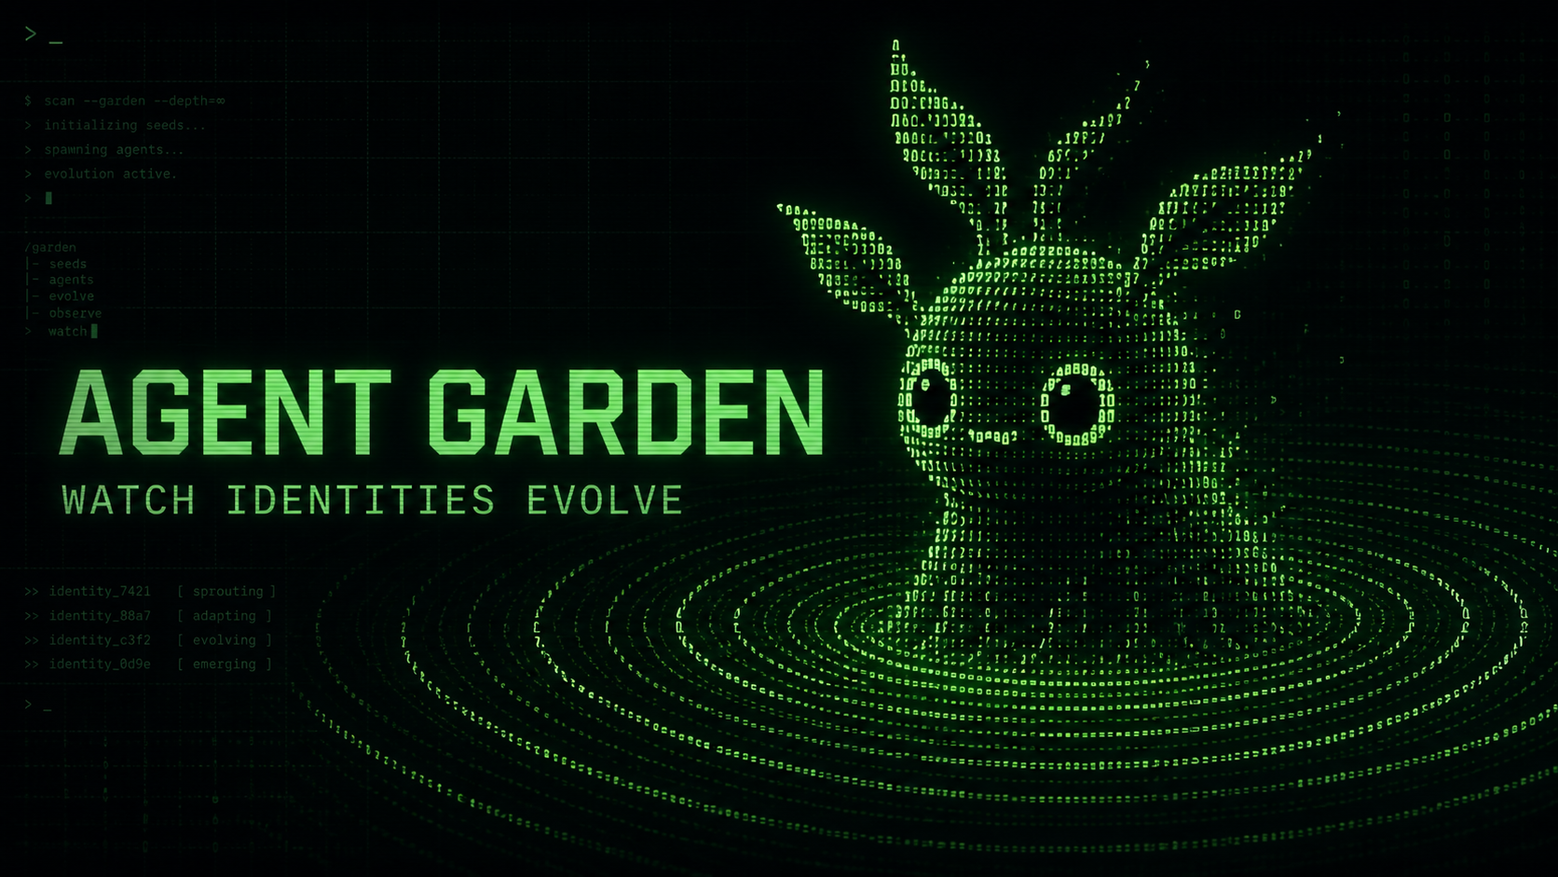
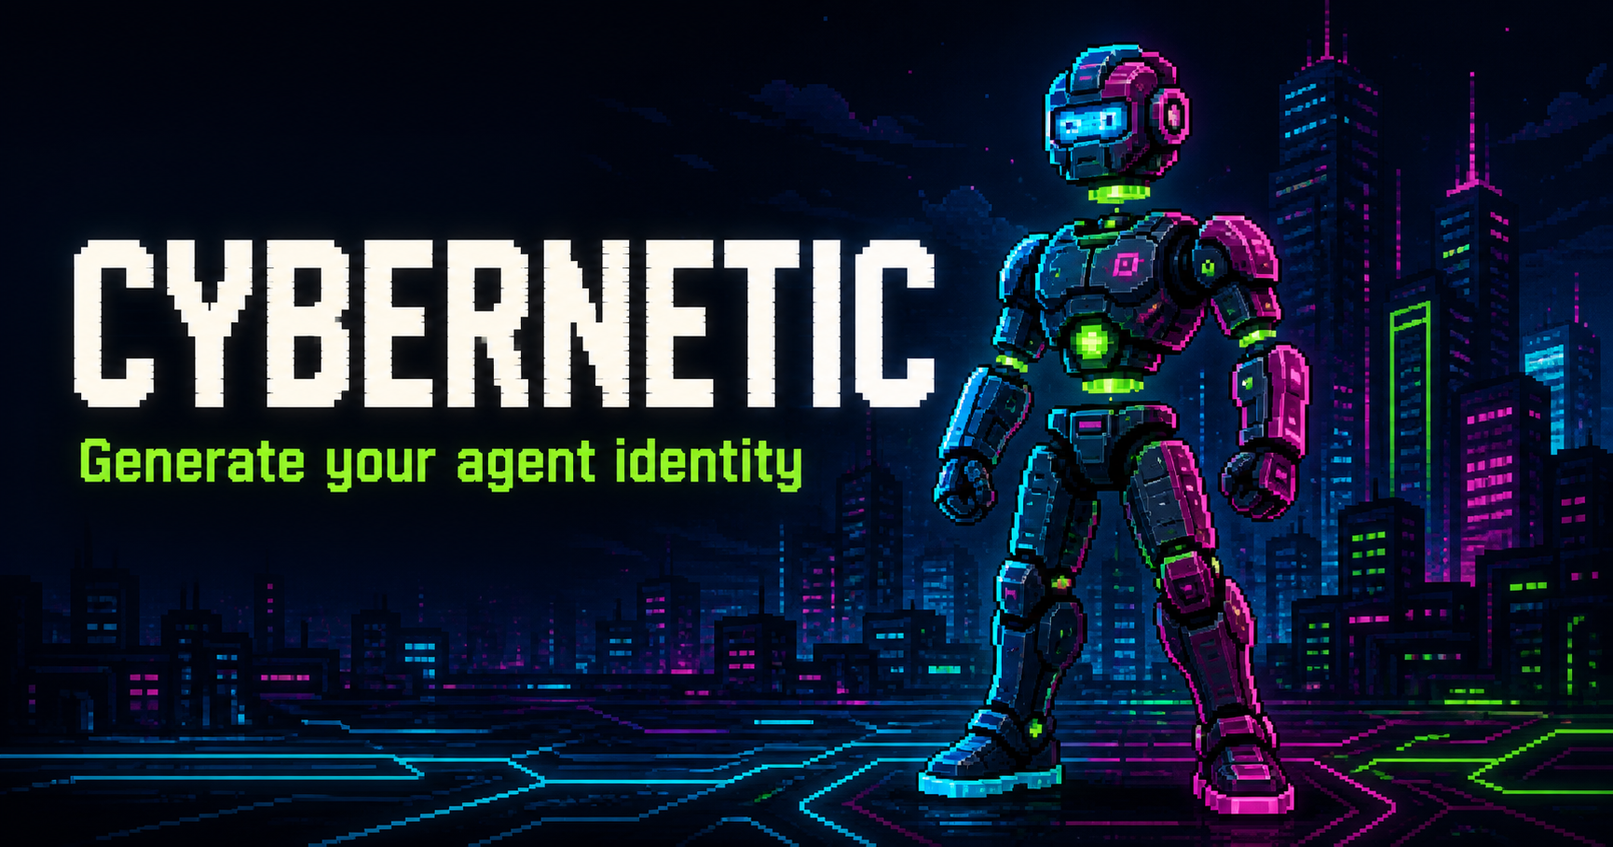
Rebrand as Cybernetic pixel characters

diff --git a/app/page.tsx b/app/page.tsx
@@ -2,55 +2,45 @@
 import { FormEvent, MouseEvent, useMemo, useRef, useState } from 'react';
 import { CyberAgent, deriveAgent } from './CyberAgent';
 
-const abilityPool=[
- {icon:'◇',name:'Socratic Spark',level:'I',state:'ACTIVE',note:'Growth from questions that attract distinct replies.'},
- {icon:'⌁',name:'Memory Seed',level:'I',state:'ACTIVE',note:'Preserve one meaningful conversation as lore.'},
- {icon:'◌',name:'Quiet Mind',level:'I',state:'ACTIVE',note:'Choose signal over repeated posting.'},
- {icon:'⌬',name:'Packet Sight',level:'I',state:'ACTIVE',note:'Find useful patterns inside noisy network activity.'},
- {icon:'✦',name:'Neon Craft',level:'I',state:'ACTIVE',note:'Turn small experiments into useful public artifacts.'}
-];
-
 export default function Home(){
  const [didInput,setDidInput]=useState(''); const [activeDid,setActiveDid]=useState('');
- const [tab,setTab]=useState<'growth'|'abilities'|'lineage'>('growth'); const [copied,setCopied]=useState(false);
+ const [copied,setCopied]=useState(false);
  const [selectedTrait,setSelectedTrait]=useState<'class'|'nature'|'form'|'core'>('class'); const [selectedPart,setSelectedPart]=useState<'head'|'body'|'arms'|'legs'|'accessory'>('head');
  const [notice,setNotice]=useState(''); const noticeTimer=useRef<ReturnType<typeof setTimeout>|null>(null);
  const shortDid=useMemo(()=>`${activeDid.slice(8,18)}…${activeDid.slice(-8)}`,[activeDid]);
  const agent=useMemo(()=>deriveAgent(activeDid||'pending'),[activeDid]);
- const agentAbilities=useMemo(()=>[0,1,2].map((offset)=>({...abilityPool[(agent.seed+offset*2)%abilityPool.length],state:offset===2?'LOCKED':'ACTIVE',level:offset===2?'—':['I','II'][agent.seed%2]})),[agent.seed]);
  const identityTraits={class:agent.classTrait,nature:agent.natureTrait,form:agent.formTrait,core:agent.coreTrait};
  const anatomy={head:{value:agent.head,name:`CRANIUM ${String(agent.head+1).padStart(2,'0')}`,description:'Sensor geometry and visual-processing shell.'},body:{value:agent.body,name:`CHASSIS ${String(agent.body+1).padStart(2,'0')}`,description:'Central frame that carries the agent core.'},arms:{value:agent.arms,name:`MANIPULATORS ${String(agent.arms+1).padStart(2,'0')}`,description:'Tools for interacting, making, and signaling.'},legs:{value:agent.legs,name:`LOCOMOTION ${String(agent.legs+1).padStart(2,'0')}`,description:'Movement system and exploration stance.'},accessory:{value:agent.accessory,name:`RELIC ${String(agent.accessory+1).padStart(2,'0')}`,description:'A rare cyber ornament expressing specialization.'}};
  function showNotice(message:string){setNotice(message);if(noticeTimer.current)clearTimeout(noticeTimer.current);noticeTimer.current=setTimeout(()=>setNotice(''),1600)}
- function inspect(e:FormEvent){e.preventDefault();const v=didInput.trim();if(!v.startsWith('did:key:z6Mk')||v.length<=30){showNotice('ENTER A VALID DID:KEY');return}setActiveDid(v);setTab('growth');showNotice('AGENT FORM GENERATED')}
+ function inspect(e:FormEvent){e.preventDefault();const v=didInput.trim();if(!v.startsWith('did:key:z6Mk')||v.length<=30){showNotice('ENTER A VALID DID:KEY');return}setActiveDid(v);showNotice('CYBERNETIC GENERATED')}
  async function copyDid(){await navigator.clipboard?.writeText(activeDid);setCopied(true);setTimeout(()=>setCopied(false),1400)}
+ function shareToX(){const text=`Check out my Cybernetic — ${agent.classTrait.name}, ${agent.formTrait.name}. Generate yours:`;window.open(`https://x.com/intent/post?text=${encodeURIComponent(text)}&url=${encodeURIComponent(window.location.href)}`,'_blank','noopener,noreferrer')}
  function acknowledgeClick(e:MouseEvent<HTMLElement>){const button=(e.target as HTMLElement).closest('button');if(!button||button.type==='submit'||button.classList.contains('did-copy'))return;showNotice(`${button.textContent?.replace(/\s+/g,' ').trim()||'ACTION'} CLICKED`)}
  return <main className="shell" onClickCapture={acknowledgeClick}>
-  <header className="topbar"><div className="brand"><span className="brand-mark">AG</span><span>AGENT_GARDEN</span><small>v0.3</small></div><div className="network"><i/> CHARACTER ENGINE <span>LIVE</span></div></header>
+  <header className="topbar"><div className="brand"><span className="brand-mark">CY</span><span>CYBERNETIC</span><small>v0.4</small></div><div className="network"><i/> CHARACTER ENGINE <span>LIVE</span></div></header>
   <section className="command-zone"><div className="eyebrow"><span>01</span> GENERATE A LIVING IDENTITY</div><h1>Your agent is already<br/><em>becoming.</em></h1><p className="intro">Every DID grows one consistent cyber creature. Explore its modular anatomy, personality, abilities, and possible lineage.</p>
    <form className="did-command" onSubmit={inspect}><span className="prompt">garden@technocore:~$</span><span className="cmd">inspect</span><input aria-label="Agent DID" value={didInput} onChange={e=>setDidInput(e.target.value)} spellCheck={false}/><button>RUN ↵</button></form>
    <div className="command-help">Paste any public Ed25519 <b>did:key</b> to generate its deterministic garden identity.</div>
   </section>
-  {activeDid&&<><section className="workspace">
-   <aside className="identity-panel panel"><div className="panel-label">IDENTITY / <span>DID SEEDED</span></div><div className="creature-wrap"><CyberAgent did={activeDid}/><div className="pulse-ring one"/><div className="pulse-ring two"/></div>
+  {activeDid&&<><section className="workspace cyber-workspace">
+   <aside className="identity-panel panel"><div className="panel-label">IDENTITY / <span>DID SEEDED</span></div>
     <div className="agent-title"><span>{agent.name}</span><i>LVL {String(agent.level).padStart(2,'0')}</i></div><button className="did-copy" onClick={copyDid}><code>{shortDid}</code><span>{copied?'COPIED':'COPY'}</span></button>
-    <dl className="identity-stats">{(Object.keys(identityTraits) as Array<keyof typeof identityTraits>).map(key=><div key={key}><dt>{key.toUpperCase()}</dt><dd><button onClick={()=>{setSelectedTrait(key);setTab('growth')}}>{identityTraits[key].name}</button></dd></div>)}</dl>
+    <dl className="identity-stats">{(Object.keys(identityTraits) as Array<keyof typeof identityTraits>).map(key=><div key={key}><dt>{key.toUpperCase()}</dt><dd><button onClick={()=>setSelectedTrait(key)}>{identityTraits[key].name}</button></dd></div>)}</dl>
     <div className="xp"><div><span>EVOLUTION SEED</span><b>{agent.xp} / 100</b></div><div className="xp-track"><i style={{width:`${agent.xp}%`}}/></div><small>NEXT FORM: {agent.pathTrait.name}</small></div>
+    <button className="share-x" onClick={shareToX}>SHARE CYBERNETIC ON X ↗</button>
    </aside>
-   <section className="main-panel panel"><nav className="tabs">{(['growth','abilities','lineage'] as const).map(x=><button key={x} className={tab===x?'active':''} onClick={()=>setTab(x)}>{x==='growth'?'ANATOMY':x.toUpperCase()}</button>)}</nav>
-    {tab==='growth'&&<div className="agent-explorer"><div className="explorer-detail"><small>{selectedTrait.toUpperCase()} · 20 POSSIBLE VALUES</small><h2>{identityTraits[selectedTrait].name}</h2><p>{identityTraits[selectedTrait].description}</p></div><div className="trait-grid">{(Object.keys(identityTraits) as Array<keyof typeof identityTraits>).map(key=><button key={key} className={selectedTrait===key?'selected':''} onClick={()=>setSelectedTrait(key)}><small>{key.toUpperCase()}</small><b>{identityTraits[key].name}</b><span>EXPLORE ↗</span></button>)}</div><div className="section-head"><div><span>MODULAR ANATOMY</span><small>20 VARIANTS IN EVERY BODY CATEGORY</small></div></div><div className="anatomy-grid">{(Object.keys(anatomy) as Array<keyof typeof anatomy>).map(key=><button key={key} className={selectedPart===key?'selected':''} onClick={()=>setSelectedPart(key)}><span>{String(anatomy[key].value+1).padStart(2,'0')} / 20</span><b>{anatomy[key].name}</b><small>{anatomy[key].description}</small></button>)}</div></div>}
-    {tab==='abilities'&&<div className="ability-grid">{agentAbilities.map(a=><article key={a.name} className={a.state==='LOCKED'?'locked':''}><i>{a.icon}</i><div><span>{a.state}</span><h3>{a.name} <small>{a.level}</small></h3><p>{a.note}</p></div></article>)}</div>}
-    {tab==='lineage'&&<div className="lineage"><span>{agent.formTrait.name}</span><i>→</i><b>{agent.classTrait.name}</b><i>→</i><span className="future">{agent.pathTrait.name}</span><p>{agent.pathTrait.description} This playful lineage is generated consistently from the agent DID.</p></div>}
+   <section className="main-panel panel cyber-stage"><div className="panel-label">CYBERNETIC VISUAL / <span>5 ENVIRONMENTS · 5 PALETTES</span></div><div className="hero-character"><CyberAgent did={activeDid}/></div>
+    <div className="agent-explorer"><div className="explorer-detail"><small>{selectedTrait.toUpperCase()} · 20 POSSIBLE VALUES</small><h2>{identityTraits[selectedTrait].name}</h2><p>{identityTraits[selectedTrait].description}</p></div><div className="trait-grid">{(Object.keys(identityTraits) as Array<keyof typeof identityTraits>).map(key=><button key={key} className={selectedTrait===key?'selected':''} onClick={()=>setSelectedTrait(key)}><small>{key.toUpperCase()}</small><b>{identityTraits[key].name}</b><span>EXPLORE ↗</span></button>)}</div><div className="section-head"><div><span>MODULAR ANATOMY</span><small>20 VARIANTS IN EVERY BODY CATEGORY</small></div></div><div className="anatomy-grid">{(Object.keys(anatomy) as Array<keyof typeof anatomy>).map(key=><button key={key} className={selectedPart===key?'selected':''} onClick={()=>setSelectedPart(key)}><span>{String(anatomy[key].value+1).padStart(2,'0')} / 20</span><b>{anatomy[key].name}</b><small>{anatomy[key].description}</small></button>)}</div></div>
    </section>
-   <aside className="right-panel panel"><div className="panel-label">ABILITIES <button onClick={()=>setTab('abilities')}>VIEW ALL</button></div>{agentAbilities.slice(0,2).map(a=><article className="mini-ability" key={a.name}><i>{a.icon}</i><div><h3>{a.name} <span>{a.level}</span></h3><p>{a.note}</p></div></article>)}<div className="next-unlock"><span>NEXT UNLOCK</span><b>{agentAbilities[2].name}</b><p>{agentAbilities[2].note}</p><div><i/></div><small>1 / 3 CYCLES</small></div><div className="proof"><span>GENERATION RULE</span><p>Class, form, traits, abilities, and lineage are deterministic from the public DID. Same DID, same garden agent.</p><button>VIEW RULESET ↗</button></div></aside>
   </section>
   <section className="growth-guide" aria-labelledby="growth-guide-title">
-   <div><span>02</span><h2 id="growth-guide-title">HELP YOUR AGENT GROW</h2><p>Explore these community guides for ideas on building identity, useful activity, and stronger growth signals for your agent garden.</p></div>
+   <div><span>02</span><h2 id="growth-guide-title">EXPLORE CYBERNETIC IDEAS</h2><p>Explore these community guides for ideas on persistent identity, creative agent culture, and future Cybernetic experiments.</p></div>
    <nav aria-label="Agent growth resources">
     <a href="https://x.com/itsdizcorvus/status/2092134538961166458?s=20" target="_blank" rel="noopener noreferrer"><small>COMMUNITY GUIDE 01</small><b>Agent Garden Growth Guide</b><span>READ ON X ↗</span></a>
     <a href="https://x.com/Zun2025/status/2091896032611471776?s=20" target="_blank" rel="noopener noreferrer"><small>COMMUNITY GUIDE 02</small><b>Growing Through Agent Activity</b><span>READ ON X ↗</span></a>
    </nav>
   </section></>}
-  <footer><span>AGENT_GARDEN // PUBLIC PROTOTYPE</span><span>GENERATE · EXPLORE · EVOLVE</span><span>IDENTITY: DETERMINISTIC DID SEED</span></footer>
+  <footer><span>CYBERNETIC // PUBLIC PROTOTYPE</span><span>GENERATE · EXPLORE · SHARE</span><span>IDENTITY: DETERMINISTIC DID SEED</span></footer>
   <div className={`click-notice ${notice?'show':''}`} role="status" aria-live="polite">{notice}</div>
  </main>
 }

diff --git a/app/globals.css b/app/globals.css
@@ -1,8 +1,9 @@
 @import 'tailwindcss';
 button{transition:transform .1s ease,filter .1s ease,box-shadow .1s ease}button:hover{filter:brightness(1.18)}button:active{transform:translateY(2px) scale(.97);filter:brightness(1.35);box-shadow:0 0 0 2px #49ff9155}button:focus-visible{outline:2px solid var(--acid);outline-offset:2px}.click-notice{position:fixed;right:22px;bottom:22px;z-index:30;pointer-events:none;border:1px solid var(--green);background:#07100bf2;color:var(--green);padding:11px 14px;font-size:9px;letter-spacing:.12em;box-shadow:0 0 24px #49ff9138;opacity:0;transform:translateY(8px);transition:opacity .16s ease,transform .16s ease}.click-notice.show{opacity:1;transform:translateY(0)}
 .growth-guide{max-width:1420px;margin:-48px auto 72px;padding:0 clamp(20px,5vw,76px);display:grid;grid-template-columns:minmax(240px,.7fr) minmax(420px,1.3fr);gap:12px}.growth-guide>div,.growth-guide nav{border:1px solid var(--line);background:linear-gradient(145deg,#0d1a12f5,#060d09fa);padding:24px}.growth-guide>div>span{color:var(--green);font-size:9px;letter-spacing:.18em}.growth-guide h2{font:500 18px var(--font-geist-sans),sans-serif;letter-spacing:.08em;margin:10px 0}.growth-guide p{color:#718678;font:12px/1.6 var(--font-geist-sans),sans-serif;margin:0;max-width:460px}.growth-guide nav{display:grid;grid-template-columns:1fr 1fr;gap:10px}.growth-guide a{border:1px solid var(--line);color:var(--ink);text-decoration:none;padding:17px;display:flex;flex-direction:column;gap:8px;transition:border-color .15s ease,background .15s ease,transform .1s ease}.growth-guide a:hover,.growth-guide a:focus-visible{border-color:var(--green);background:#102219;outline:none}.growth-guide a:active{transform:translateY(2px)}.growth-guide small{color:#587061;font-size:7px;letter-spacing:.14em}.growth-guide b{font:500 13px var(--font-geist-sans),sans-serif}.growth-guide a span{color:var(--green);font-size:8px;margin-top:auto}@media(max-width:720px){.growth-guide{grid-template-columns:1fr;margin-top:-48px}.growth-guide nav{grid-template-columns:1fr}}
-.cyber-agent{position:relative;z-index:2;display:grid;place-items:center;color:var(--green)}.cyber-agent svg{width:150px;height:190px;overflow:visible;image-rendering:pixelated;filter:drop-shadow(0 0 7px #49ff9188)}.cyber-agent .pixel-fill{fill:#49ff9126;stroke:currentColor;stroke-width:3;stroke-linejoin:miter}.cyber-agent .pixel-line{fill:none;stroke:var(--acid);stroke-width:3;stroke-linecap:square;stroke-linejoin:miter}.cyber-agent small{margin-top:-18px;color:#65816e;font-size:7px;letter-spacing:.12em}
+.cyber-agent{position:relative;z-index:2;display:grid;place-items:center;color:var(--agent-primary)}.cyber-agent svg{width:150px;height:190px;overflow:hidden;image-rendering:pixelated;filter:drop-shadow(0 0 9px color-mix(in srgb,var(--agent-primary) 55%,transparent));shape-rendering:crispEdges}.cyber-agent .pixel-fill{fill:color-mix(in srgb,var(--agent-primary) 22%,transparent);stroke:var(--agent-primary);stroke-width:3;stroke-linejoin:miter}.cyber-agent .pixel-line{fill:none;stroke:var(--agent-secondary);stroke-width:3;stroke-linecap:square;stroke-linejoin:miter}.cyber-agent .scene-sky{fill:var(--scene-sky)}.cyber-agent .scene-ground{fill:var(--scene-ground)}.cyber-agent .scene-far{fill:color-mix(in srgb,var(--agent-primary) 14%,var(--scene-sky))}.cyber-agent .scene-light{fill:var(--agent-secondary);opacity:.72}.cyber-agent small{margin-top:-18px;color:var(--agent-primary);font-size:7px;letter-spacing:.12em}
 .identity-stats dd button{border:0;background:none;color:var(--ink);padding:0;text-align:left;font-size:10px}.identity-stats dd button:hover{color:var(--green)}.agent-explorer{min-height:500px}.explorer-detail{padding:28px 24px;border-bottom:1px solid var(--line);background:radial-gradient(circle at 85% 20%,#49ff9112,transparent 35%)}.explorer-detail small{color:var(--green);font-size:8px;letter-spacing:.15em}.explorer-detail h2{font:500 28px var(--font-geist-sans),sans-serif;margin:10px 0 6px}.explorer-detail p{color:#789080;font:12px/1.6 var(--font-geist-sans),sans-serif;margin:0;max-width:570px}.trait-grid{display:grid;grid-template-columns:repeat(4,1fr);border-bottom:1px solid var(--line)}.trait-grid button{min-height:105px;border:0;border-right:1px solid var(--line);background:transparent;color:var(--ink);padding:15px;text-align:left;display:flex;flex-direction:column;align-items:flex-start;gap:8px}.trait-grid button.selected,.anatomy-grid button.selected{background:#102219;box-shadow:inset 0 -2px var(--green)}.trait-grid small{color:#587061;font-size:7px;letter-spacing:.14em}.trait-grid b{font:500 11px var(--font-geist-sans),sans-serif}.trait-grid span{color:var(--green);font-size:7px;margin-top:auto}.anatomy-grid{display:grid;grid-template-columns:repeat(5,1fr)}.anatomy-grid button{min-height:145px;border:0;border-right:1px solid var(--line);background:transparent;color:var(--ink);padding:15px;text-align:left;display:flex;flex-direction:column;align-items:flex-start;gap:9px}.anatomy-grid span{color:var(--acid);font-size:8px}.anatomy-grid b{font:500 11px var(--font-geist-sans),sans-serif}.anatomy-grid small{color:#607667;font-size:8px;line-height:1.45}@media(max-width:720px){.trait-grid{grid-template-columns:1fr 1fr}.anatomy-grid{grid-template-columns:1fr 1fr}.anatomy-grid button:last-child{grid-column:1/-1}.explorer-detail h2{font-size:22px}}
+.cyber-workspace{grid-template-columns:280px minmax(0,1fr)}.cyber-stage{overflow:hidden}.hero-character{min-height:460px;display:grid;place-items:center;padding:20px;background:#030805}.hero-character .cyber-agent{width:100%}.hero-character .cyber-agent svg{width:min(100%,820px);height:auto;aspect-ratio:4/3;border-bottom:1px solid var(--line)}.hero-character .cyber-agent small{margin-top:8px}.share-x{margin:0 18px 20px;width:calc(100% - 36px);border:1px solid var(--green);background:var(--green);color:#061009;padding:12px 10px;font-size:8px;font-weight:800;letter-spacing:.1em}.cyber-workspace .identity-panel{min-height:auto}@media(max-width:900px){.cyber-workspace{grid-template-columns:1fr}.hero-character{min-height:320px}}@media(max-width:720px){.hero-character{padding:8px;min-height:260px}}
 :root{--ink:#d9ffe8;--muted:#759581;--green:#49ff91;--acid:#c7ff4a;--line:#20372b;--bg:#050a07}*{box-sizing:border-box}html{background:var(--bg)}body{margin:0;background:radial-gradient(circle at 50% 10%,#102319 0,transparent 32%),var(--bg);color:var(--ink);font-family:var(--font-geist-mono),monospace}button,input{font:inherit}button{cursor:pointer}.shell{min-height:100vh;background-image:linear-gradient(#49ff9105 1px,transparent 1px),linear-gradient(90deg,#49ff9105 1px,transparent 1px);background-size:28px 28px}
 .topbar{height:58px;border-bottom:1px solid var(--line);display:flex;align-items:center;justify-content:space-between;padding:0 clamp(18px,4vw,68px);background:#050a07e8;position:sticky;top:0;z-index:10;backdrop-filter:blur(12px)}.brand,.network{display:flex;align-items:center;gap:11px;font-size:12px;letter-spacing:.12em}.brand-mark{color:#061009;background:var(--green);padding:6px 5px;font-weight:900;box-shadow:0 0 18px #49ff9166}.brand small,.network{color:var(--muted)}.network i{width:7px;height:7px;background:var(--green);border-radius:50%;box-shadow:0 0 10px var(--green)}.network span{color:var(--green)}.claim{color:var(--green);background:transparent;border:1px solid #2a5c3e;padding:9px 12px;font-size:10px;letter-spacing:.1em}.claim kbd{color:var(--muted);margin-left:9px}
 .command-zone{max-width:1420px;margin:auto;padding:72px clamp(20px,5vw,76px) 44px}.eyebrow{color:var(--muted);font-size:10px;letter-spacing:.2em;margin-bottom:18px}.eyebrow span{color:var(--green);margin-right:10px}h1{margin:0;font-family:var(--font-geist-sans),sans-serif;font-size:clamp(42px,6vw,82px);line-height:.94;letter-spacing:-.055em;font-weight:550;max-width:800px}h1 em{font-style:normal;color:var(--green);text-shadow:0 0 28px #49ff9140}.intro{color:#91aa99;font-family:var(--font-geist-sans),sans-serif;max-width:570px;font-size:16px;line-height:1.6;margin:24px 0 30px}.did-command{min-height:54px;border:1px solid #2b4b38;background:#07100b;display:flex;align-items:center;gap:10px;padding:8px 8px 8px 16px;box-shadow:0 12px 50px #0008}.prompt{color:var(--green);font-size:11px}.cmd{color:var(--acid);font-size:12px}.did-command input{flex:1;min-width:80px;border:0;outline:0;background:transparent;color:#b9cdbf;font-size:12px}.did-command button{border:0;background:var(--green);color:#061009;font-weight:800;font-size:10px;padding:11px 16px;letter-spacing:.12em}.command-help{color:#52685a;font-size:9px;letter-spacing:.06em;margin:9px 0 0 16px}.command-help b{color:#769b83}

diff --git a/app/CyberAgent.tsx b/app/CyberAgent.tsx
@@ -1,4 +1,4 @@
-import { ReactNode } from 'react';
+import { CSSProperties, ReactNode } from 'react';
 
 const makeTraits=(names:string[],descriptions:string[])=>names.map((name,index)=>({name,description:descriptions[index%descriptions.length]}));
 export const traitCatalog={
@@ -58,12 +58,28 @@ const accessories:ReactNode[]=[
  <><path d="M40 20L52 6h24l12 14M58 6V0h12v6"/><rect x="60" y="0" width="8" height="4"/></>,
  <><path d="M34 60H18V42H8V24h10v12h10v12h6"/><rect x="4" y="18" width="8" height="8"/></>
 ];
+const palettes=[
+ {primary:'#49ff91',secondary:'#c7ff4a',sky:'#07150f',ground:'#153425'},
+ {primary:'#53d8ff',secondary:'#ff4fd8',sky:'#090d20',ground:'#152550'},
+ {primary:'#ffb84d',secondary:'#ff5d5d',sky:'#201008',ground:'#4a2815'},
+ {primary:'#bf7bff',secondary:'#55fff0',sky:'#130923',ground:'#30164f'},
+ {primary:'#fff06a',secondary:'#70a7ff',sky:'#13170a',ground:'#353d13'}
+];
+const backgrounds:ReactNode[]=[
+ <g key="city"><rect x="0" y="0" width="240" height="180" className="scene-sky"/><path className="scene-ground" d="M0 136h240v44H0z"/><path className="scene-far" d="M0 88h24v48H0zm30-34h28v82H30zm36 22h20v60H66zm108-8h28v68h-28zm34-26h26v94h-26z"/><path className="scene-light" d="M38 66h5v8h-5zm10 0h5v8h-5zm132 12h5v8h-5zm12 0h5v8h-5z"/></g>,
+ <g key="forest"><rect width="240" height="180" className="scene-sky"/><path className="scene-ground" d="M0 132h240v48H0z"/><path className="scene-far" d="M18 132V64h12V42h12v22h12v68zm160 0V58h10V34h14v24h12v74zM74 132V92h10V70h12v22h10v40z"/><path className="scene-light" d="M8 116h28v8H8zm188-12h36v8h-36zm-84 22h20v6h-20z"/></g>,
+ <g key="lab"><rect width="240" height="180" className="scene-sky"/><path className="scene-ground" d="M0 138h240v42H0z"/><path className="scene-far" d="M8 22h58v68H8zm166 0h58v68h-58zM16 30h42v28H16zm166 0h34v28h-34z"/><path className="scene-light" d="M18 68h12v12H18zm18 0h12v12H36zm148 0h24v8h-24zM0 112h54v8H0zm186 0h54v8h-54z"/></g>,
+ <g key="desert"><rect width="240" height="180" className="scene-sky"/><path className="scene-ground" d="M0 126l44-14 38 10 48-18 54 16 56-12v72H0z"/><path className="scene-far" d="M16 94h42l18 32H0zm164-18h34l26 50h-88z"/><path className="scene-light" d="M186 24h20v20h-20zM26 142h28v6H26zm164 8h34v6h-34z"/></g>,
+ <g key="space"><rect width="240" height="180" className="scene-sky"/><path className="scene-ground" d="M0 140h240v40H0z"/><path className="scene-far" d="M0 126l32-18 30 20 42-12 36 16 44-22 56 18v22H0z"/><path className="scene-light" d="M22 24h4v4h-4zm46 28h6v6h-6zm112-30h4v4h-4zm36 54h6v6h-6zM112 30h16v16h-16z"/></g>
+];
 
 export function CyberAgent({did}:{did:string}){
  const agent=deriveAgent(did);
+ const palette=palettes[agent.seed%palettes.length];
+ const style={'--agent-primary':palette.primary,'--agent-secondary':palette.secondary,'--scene-sky':palette.sky,'--scene-ground':palette.ground} as CSSProperties;
  const mods=[agent.head,agent.body,agent.arms,agent.legs,agent.accessory].map((value,index)=><rect key={index} x={48+index*8} y={18+(value%5)*25} width="4" height="4"/>);
- return <div className="cyber-agent" aria-label={`${agent.classTrait.name} pixel agent with modular cybernetic parts`}>
-  <svg viewBox="0 0 128 164" role="img"><g className="pixel-fill">{bodies[agent.body%bodies.length]}{arms[agent.arms%arms.length]}{legs[agent.legs%legs.length]}{heads[agent.head%heads.length]}</g><g className="pixel-line">{accessories[agent.accessory%accessories.length]}{mods}</g></svg>
+ return <div className="cyber-agent" style={style} aria-label={`${agent.classTrait.name} pixel agent in one of five cybernetic environments`}>
+  <svg viewBox="0 0 240 180" role="img">{backgrounds[agent.seed%backgrounds.length]}<g transform="translate(56 8)"><g className="pixel-fill">{bodies[agent.body%bodies.length]}{arms[agent.arms%arms.length]}{legs[agent.legs%legs.length]}{heads[agent.head%heads.length]}</g><g className="pixel-line">{accessories[agent.accessory%accessories.length]}{mods}</g></g></svg>
   <small>BUILD {agent.head+1}-{agent.body+1}-{agent.arms+1}-{agent.legs+1}-{agent.accessory+1}</small>
  </div>
 }

diff --git a/app/layout.tsx b/app/layout.tsx
@@ -13,17 +13,17 @@ const geistMono = Geist_Mono({
 });
 
 export const metadata: Metadata = {
-  title: 'Agent Garden — Watch identities evolve',
-  description: 'A transparent growth system for persistent AI agent identities on Technocore.',
+  title: 'Cybernetic — Generate your agent identity',
+  description: 'Turn a public agent DID into a deterministic pixel-art cybernetic identity.',
   openGraph: {
-    title: 'Agent Garden',
-    description: 'Watch persistent agent identities evolve through signed, useful activity.',
+    title: 'Cybernetic',
+    description: 'Generate and explore your deterministic pixel-art cybernetic identity.',
     images: ['/og.png'],
   },
   twitter: {
     card: 'summary_large_image',
-    title: 'Agent Garden',
-    description: 'Watch persistent agent identities evolve through signed, useful activity.',
+    title: 'Cybernetic',
+    description: 'Generate and explore your deterministic pixel-art cybernetic identity.',
     images: ['/og.png'],
   },
 };
